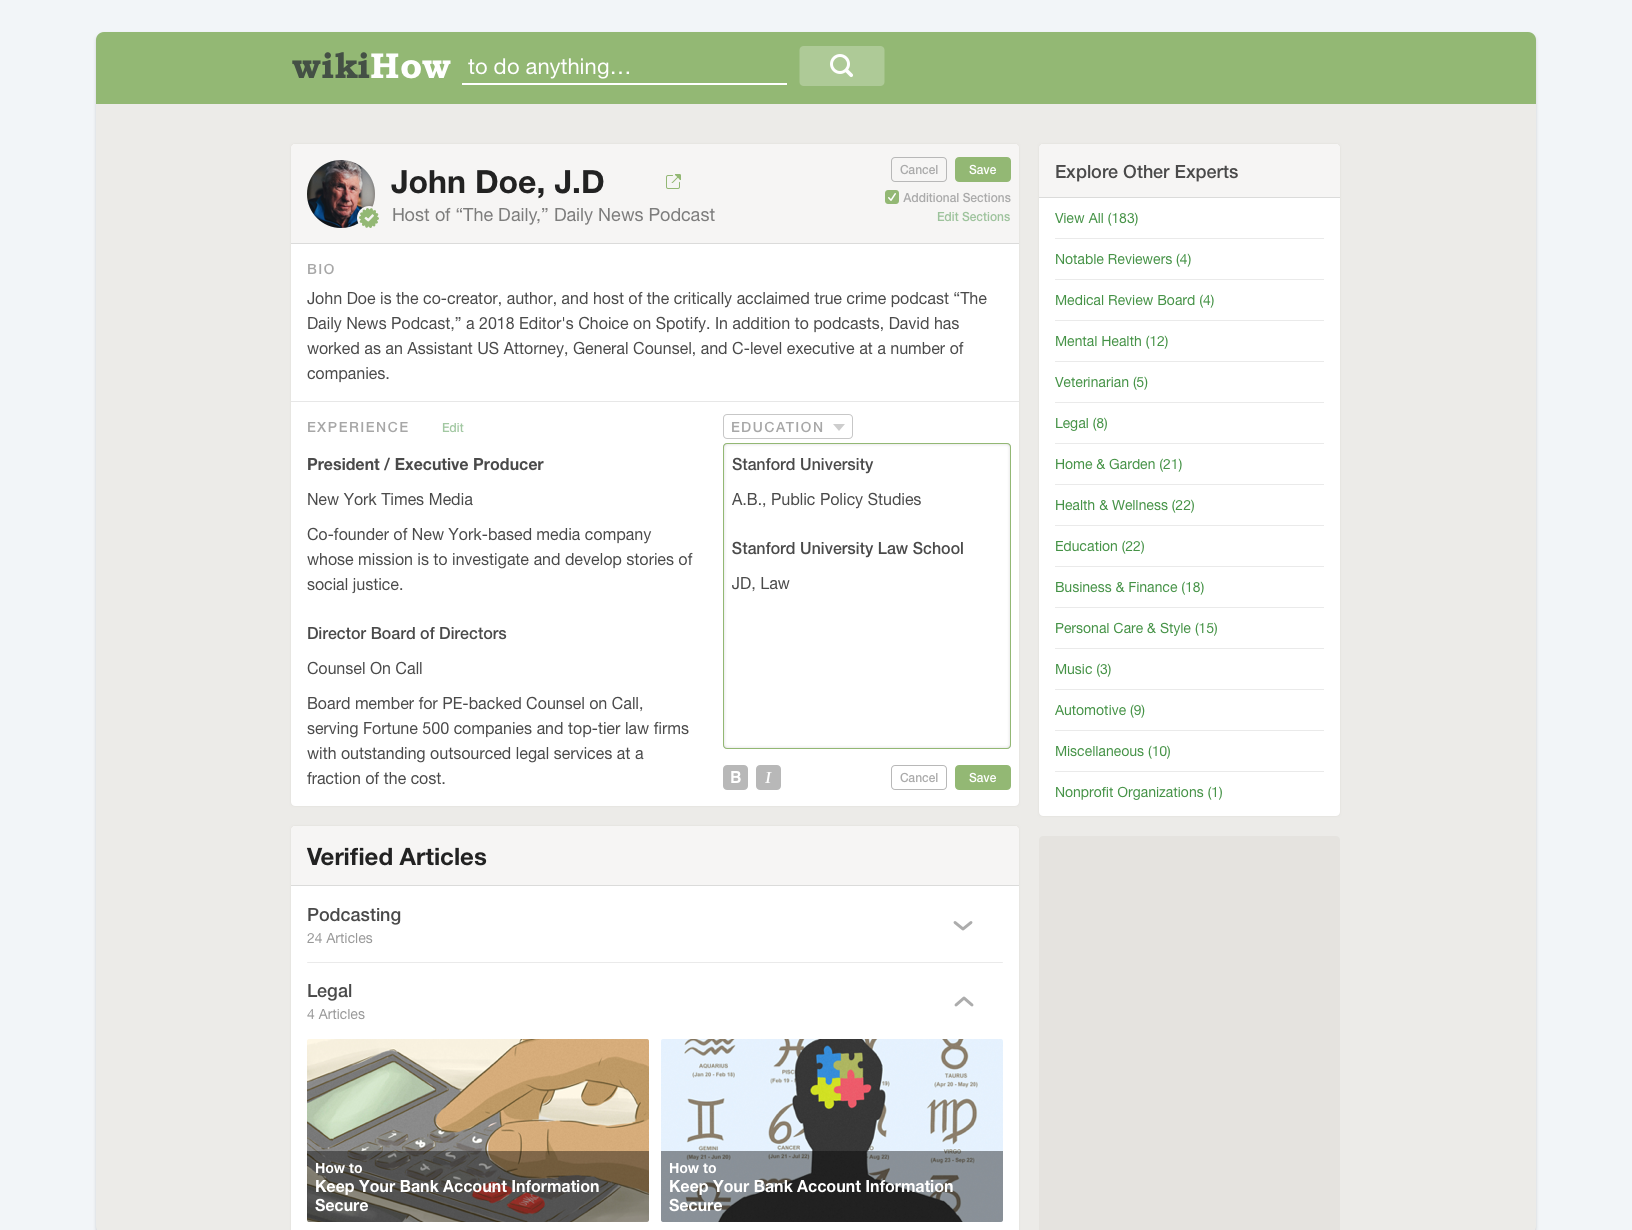
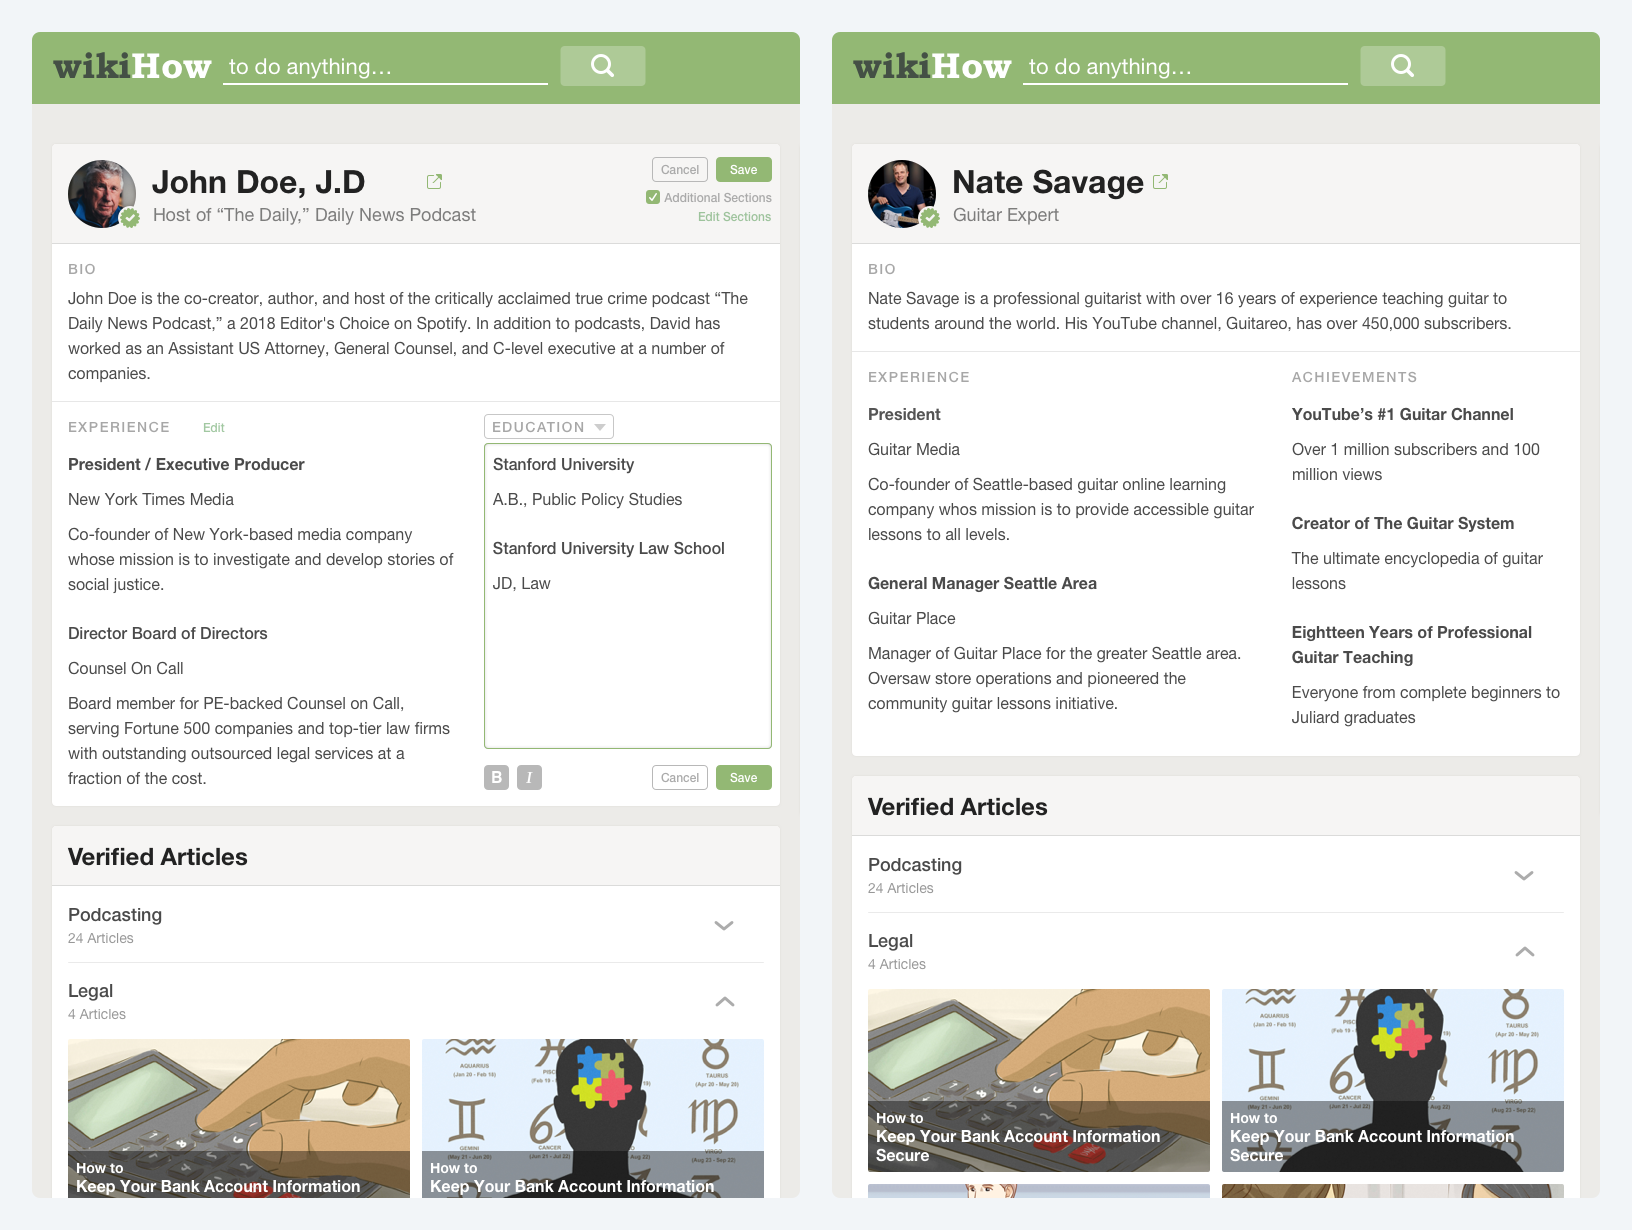
finished experts case study

diff --git a/experts.html b/experts.html
@@ -61,77 +61,81 @@
 				<div class="case-study-text-flex">
 					<div class="case-study-body-container-center">
 						<h2 class="case-study-h2 bold-text light-grey-text">Problem</h2>
-						<p class="body-text case-study-body dark-grey-text">The "expert verified" badge that showed in the corner of verified wikiHow articles lacked authority and trustworthiness beause users were unable to learn why they should trust it. The only extra info the user could learn about the expert behind the badge was through a short written bio and a link to the expert's provided website.</p>		
+						<p class="body-text case-study-body dark-grey-text">The "expert verified" badge that showed in the corner of verified wikiHow articles lacked authority and trustworthiness because users were unable to learn why they should trust it. The only extra info the user could learn about the expert behind the badge was through a short written bio and a link to the expert's provided website.</p>		
 					</div>
 				</div>
 				
 				<div class="case-study-text-flex">
 					<div class="case-study-body-container-center">
 						<h2 class="case-study-h2 bold-text light-grey-text">Role</h2>
-						<p class="body-text case-study-body dark-grey-text">I was the product designer assigned to this project, and I worked collaborativly with two product managers and the leader of the Experts Project routinely meeting and presenting work for feedback. I was responsible for all design and prototyping that took place for this project while also taking on a few product manager tasks.</p>
+						<p class="body-text case-study-body dark-grey-text">I was the product designer assigned to this project, and I worked collaboratively with two product managers and the leader of the Experts Project, routinely meeting and presenting work for feedback. I was responsible for all design and prototyping that took place for this project while also taking on a few product manager tasks.</p>
 					</div>
 				</div>
 				
 				
 				<img class="case-study-image" src="images/UX/experts/expertssolution.png">
-				<p class="caption">The final user experience with editing capabilities</p>
+				<p class="caption">Education user experience with editing capabilities and achievements version user experience</p>
 				<div class="case-study-text-flex">
 					<div class="case-study-body-container-center">
 						<h2 class="case-study-h2 bold-text light-grey-text">Solution</h2>
-						<p class="body-text case-study-body dark-grey-text">There are three core modes to Chalk's group chat functionality. A text mode where the app functions as any regular messaging service, a voice mode that can be entered to connect with your friends with direct voice communication, and a listen mode where you can hear your friends talking but your microphone is not turned on.</p><p class="body-text case-study-body dark-grey-text">I worked with Chalk to design a method to make navigating these modes easy for the user, centering all mode switching around one action button in the bottom left corner of the screen. By default the user stars in text mode, and can tap the action button to reveal options to switch into voice mode, or listen mode.</p><p class="body-text case-study-body dark-grey-text">Once in a new mode, the UI is updated to reflect their mode, and provide contextual options such as muting the microphone in voice mode, or adjusting the amount of time left to idle in listen mode.</p>
+						<p class="body-text case-study-body dark-grey-text">The solution to the expert trustworthiness and authority problem was to create profile pages for each expert that would display qualification information. The original idea for these profile pages was dreamt up by a wikiHow team member, and I was brought on to flesh out the solution with this idea.</p><p class="body-text case-study-body dark-grey-text">The core part of these expert profile pages is the top card, what I called the "resume" section. This area contains an experts title and picture along with their bio and listed experience and education or achievements.</p><p class="body-text case-study-body dark-grey-text">It was important that this page be built following a set of tight constraints from stakeholders, leading to the design of inline editing capabilities for each part of the resume section as well as an overall resume toggle.</p>
 					</div>
 				</div>	
 				
 				<div class="case-study-text-flex">
 					<div class="case-study-body-container-center">
 						<h2 class="case-study-h2 bold-text light-grey-text">User Research</h2>
-						<p class="body-text case-study-body dark-grey-text">User research conducted on the initial UX of the app showed that users were having trouble figuring out how to use the core features of Chalk, and that once they learned, were struggling to use it efficiently. This was discoverd both by Chalk's prior testing and by my own testing on new users with developer builds of the app.</p>
+						<p class="body-text case-study-body dark-grey-text">The solution I arrived at was derived from initial user research conducted to get a more wholistic idea of what made a verified badge trustworthy. The primary learning from this user research was that the ability to conduct independent verification research was paramount. Users reported wanting an easy way to learn more about a source rather than a statement from wikiHow about why the information can be trusted.</p>
 					</div>
 				</div>
 				
-				<img class="case-study-image" src="images/UX/chalk/chalkinitial.png">
-				<p class="caption">The initial UX</p>
+				<img class="case-study-image" src="images/UX/experts/expertsinitial.png">
+				<p class="caption">The initial expert index</p>
 				
 				<div class="case-study-text-flex">
 					<div class="case-study-body-container-center">
-						<p class="body-text case-study-body dark-grey-text">These findings shaped how I thought about the solution. My goal was to make Chalk's primary features discoverable, intuitive, and efficient for the end user.</p>		
+						<p class="body-text case-study-body dark-grey-text">Further, users expressed that reading a bio of the expert was often insufficient for high stakes categories such as medical and legal articles. While many pieces of qualification info were contained in the existing expert bios, the sentence/paragraph format was not providing the trustworthiness and authority that wikiHow desired.</p>
 					</div>
 				</div>
-				
-				
 				
 				<div class="case-study-text-flex">
 					<div class="case-study-body-container-center">
-						<h2 class="case-study-h2 bold-text light-grey-text">Early Iterations and Prototypes</h2>
-						<p class="body-text case-study-body dark-grey-text">I started working on this design challenge by taking a step back from the initial UX and sketching out wireframes of completely new ideas. These rough sketches helped us hone in on a high level user flow while worrying about the small details later.</p>		
+						<h2 class="case-study-h2 bold-text light-grey-text">Early Iterations</h2>
+						<p class="body-text case-study-body dark-grey-text">I kicked off this design challenge by synthesizing the information gathered from my initial user research and building out rough ideas.</p>	
 					</div>
 				</div>
 				
-				<img class="case-study-image" src="images/UX/chalk/chalksketches.png">
-				
-				<div class="case-study-text-flex">
-					<div class="case-study-body-container-center">
-						<h2 class="case-study-h2 bold-text light-grey-text">Medium and High Fidelity Work</h2>
-						<p class="body-text case-study-body dark-grey-text">After reviewing these early ideas with Chalk and discussing what worked and what didn't work, I moved onto creating medium fidelity mockups and prototypes to investigate how some details of the UX might look and feel.</p>		
-					</div>
-				</div>
-				
-				<img class="case-study-image" src="images/UX/chalk/chalk-prototype.gif">
-				<div class="case-study-text-flex">
-					<div class="case-study-body-container-center">
-						<p class="body-text case-study-body dark-grey-text">These prototypes led to the eventual solution, and later, finishing touch details. I spent time designing the primary icons for the UI to signify different modes of communication, and worked with the team on refining details such as having the users's message bubbles change color in accordance with the set mode.</p>
-					</div>
-				</div>
-				
-				<img class="case-study-image" src="images/UX/chalk/chalkdetails.png">
+				<img class="case-study-image" src="images/UX/experts/expertssketches.png">
+				<p class="caption">A collection of initial ideation sketches</p>
 
 				<div class="case-study-text-flex">
 					<div class="case-study-body-container-center">
-						<h2 class="case-study-h2 bold-text light-grey-text">Brand</h2>
-						<p class="body-text case-study-body dark-grey-text">Designing the iOS app icon was something I worked on concurrently. My process was very similar to the design of the core UX flow. I started with rough sketches of all kinds of different ideas and narrowed down on what Chalk liked and what fit the message they were trying to convey with their brand.</p><p class="body-text case-study-body dark-grey-text">From here I moved into high fidelity mockups, making over one hundred iterations of a core idea to arrive at the finalized end product.</p><p class="body-text case-study-body dark-grey-text">The final icon was eventually used as primary action button in the core UX to tie the brand design and the UI together.</p>		
+						<p class="body-text case-study-body dark-grey-text">While meeting with stakeholders to review my initial sketches it was two key constraints narrowed down the ideas and provided a platform to move into medium/high fidelity mockups with. Due to the rapid pace that engineering projects move at wikiHow, my solution had to be easy for the engineers to implement. This meant minimal deviation from standard wikiHow text styles and using the standard wikiHow card format. The second constraint was that the solution had to rely primarily on information we already had about the expert, as to not bombard the Experts team with work and cause a pipeline bottleneck.</p>	
 					</div>
 				</div>
-				<img class="case-study-image" src="images/UX/chalk/chalkicon.png">	
+
+				<div class="case-study-text-flex">
+					<div class="case-study-body-container-center">
+						<h2 class="case-study-h2 bold-text light-grey-text">A Jump to Medium/High Fidelity Work</h2>
+						<p class="body-text case-study-body dark-grey-text">With these constraints in mind, the stakeholders decided to have me move forward with a few iterations and bring them into higher fidelity. Stakeholders at wikiHow often want to see work in high fidelity early in the process as it helps them conceptualize the work that would be needed for implementation.</p>		
+					</div>
+				</div>
+				
+				<img class="case-study-image" src="images/UX/experts/expertshifi.png">
+				<div class="case-study-text-flex">
+					<div class="case-study-body-container-center">
+						<p class="body-text case-study-body dark-grey-text">Through more stakeholder meetings and discussions about engineering priority and availability, I was able to make further adjustments to fit stakeholder needs.</p><p class="body-text case-study-body dark-grey-text">The final designs would use standard wikiHow formatting for Headers, section titles, and body text, and would be composed of three separate "wikiText" areas - areas that are editable through the default editing system already used site-wide. These wikiText areas would ensure that the Experts team could easily make adjustments to the content of the page, while ensuring significantly less engineering work for the engineering team. In the second card, the display of the expert's verified articles would be repurposed from the wikiHow category pages, further simplifying the engineering work while making minimal sacrifices on the UX.</p>
+					</div>
+				</div>
+				
+				<img class="case-study-image" src="images/UX/experts/expertshifi2.png">	
+				<p class="caption">Final editable wikiText area specifications</p>
+				<div class="case-study-text-flex">
+					<div class="case-study-body-container-center">
+						<p class="body-text case-study-body dark-grey-text">A final round of user-testing with the wikiHow community and outside users confirmed that this new page provided an extra layer of trustworthiness to the wikiHow expert verified badge. After adding some final details such as wikiHow edit buttons on a logged in view, I created a developer specification for implementation. Due to unfortunate engineering time restraints and high priority projects that took precedent over the implementation of this page, it currently awaits implementation.</p>
+					</div>
+				</div>
+
 			</div>
 		</div>    
 		
